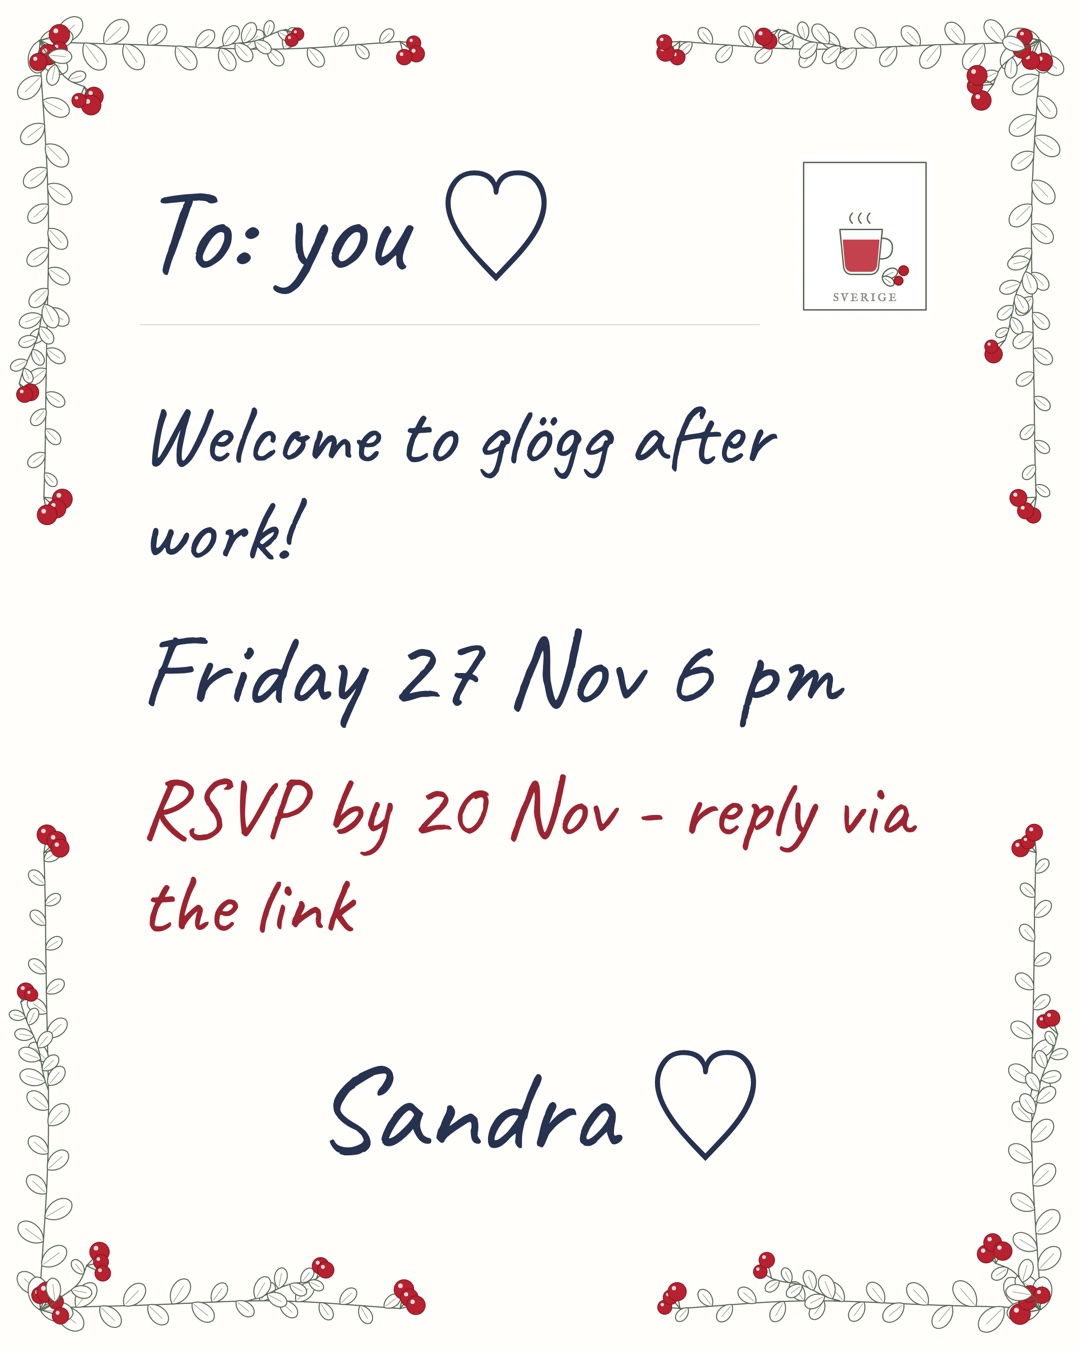
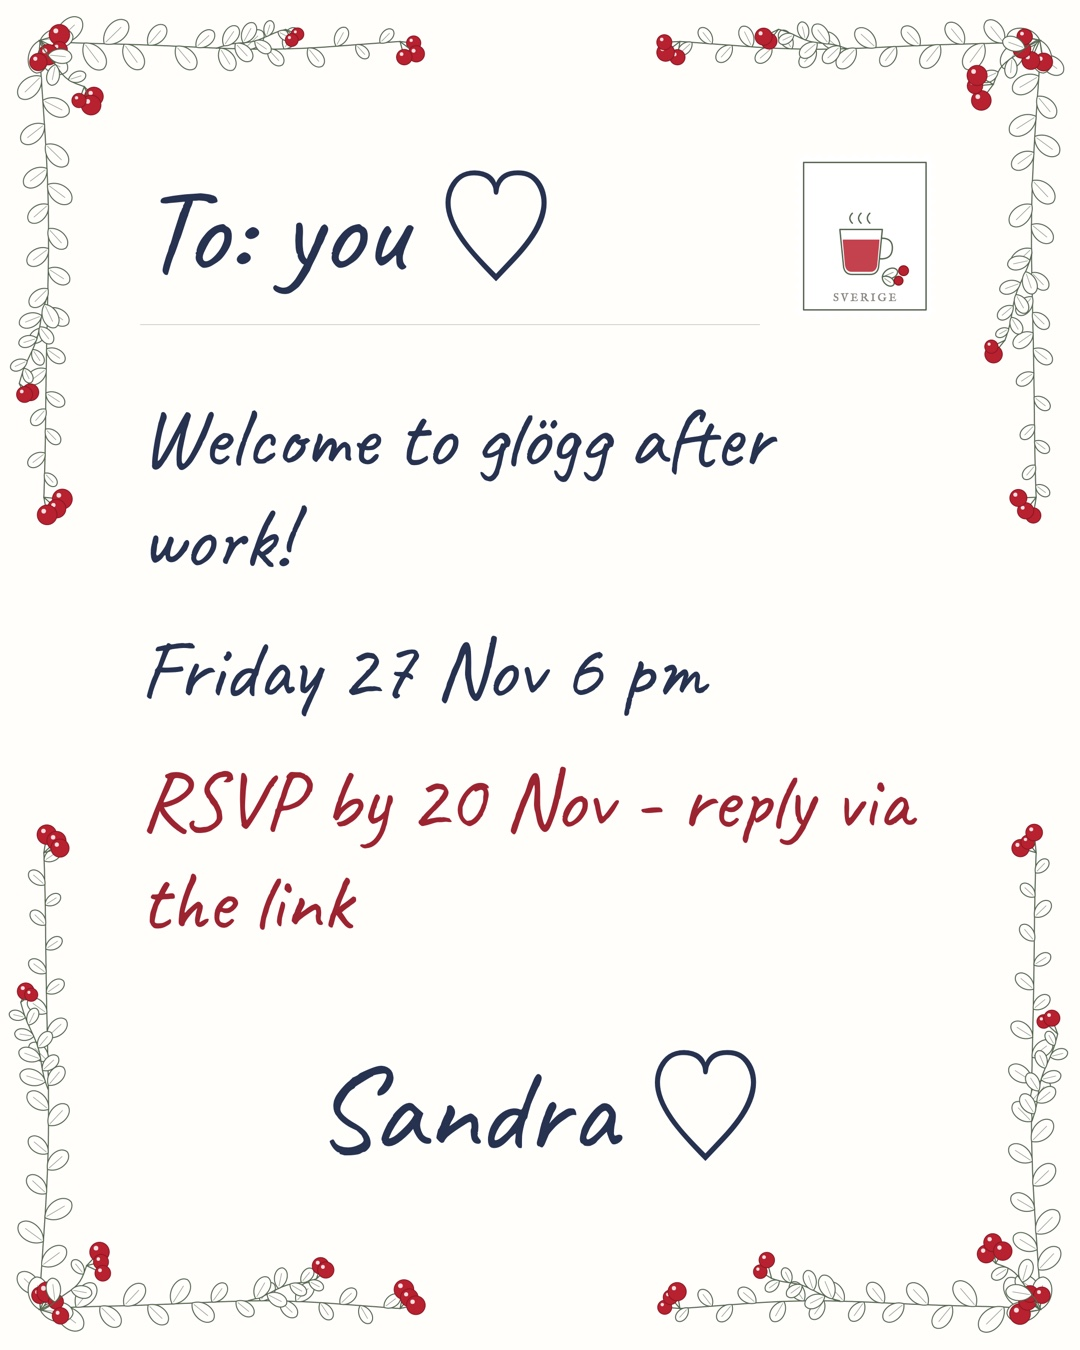
All body lines at 84 px

diff --git a/card.html b/card.html
@@ -19,11 +19,10 @@
   .line { font-size: 120px; padding-bottom: 10px; border-bottom: 1px solid var(--rule); }
   .top .line { flex: 1; }
   .from { text-align: center; border-bottom: 0; }
-  .msg { font-size: 104px; line-height: 1.15; margin: auto 0; }
+  .msg { font-size: 84px; line-height: 1.2; margin: auto 0; }
   .msg .when { margin-top: 30px; }
   .fit { white-space: nowrap; }
   .nw { white-space: nowrap; }
-  .msg .welcome { font-size: 84px; }
   .msg .osa { margin-top: 30px; font-size: 84px; color: var(--berry-ink); }
 </style>
 </head>
